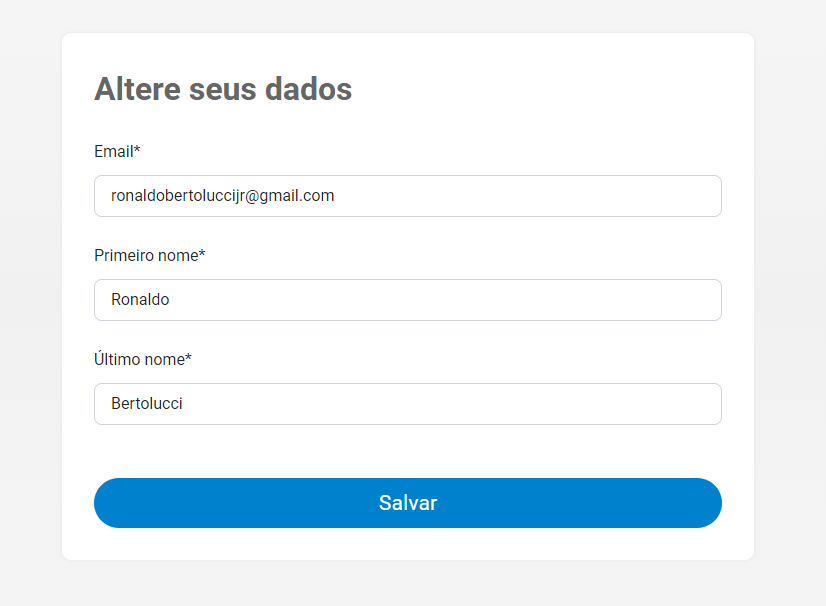
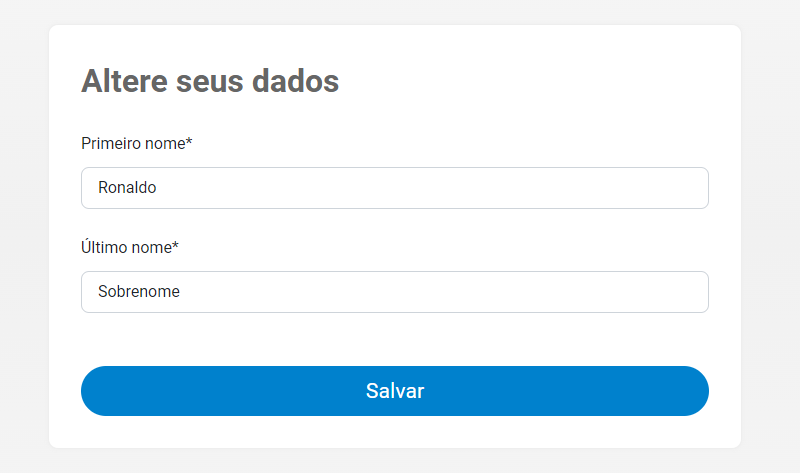
refactor(accounts): remoção do campo email na update view
- Impossibilitar a troca de email

diff --git a/templates/account/update.html b/templates/account/update.html
@@ -18,9 +18,6 @@
           {% csrf_token %}
           <div class="row">
             <div class="col-12">
-              {{ form.email|as_crispy_field }}
-            </div>
-            <div class="col-12">
               {{ form.first_name|as_crispy_field }}
             </div>
             <div class="col-12">

diff --git a/accounts/forms.py b/accounts/forms.py
@@ -17,7 +17,6 @@ class CustomUserChangeForm(UserChangeForm):
     class Meta:
         model = CustomUser
         fields = (
-            'email',
             'first_name',
             'last_name',
         )

diff --git a/README.md b/README.md
@@ -5,14 +5,14 @@ Este projeto também está online na plataforma Heroku em [pagrofacil.herokuapp.
 - login: analista@exemplo.com.br
 - senha: desafiosf2022
 
-## Instalação 
+## Instalação
 - Para ver o guia rápido de instalação, acesse esse [link](/guia/guia_inst.md)
 
 ## Como utilizar o programa
 <ul>
   <li>
     <p> O acesso ao sistema é feito pelo botão no canto superior direito. Se estiver testando a versão online, o acesso pode ser feito com as credencias
-      disponibilizadas acima. 
+      disponibilizadas acima.
     </p>
     <p align='center'>
       <img src="/guia/images/1.png" alt="home">
@@ -25,7 +25,7 @@ Este projeto também está online na plataforma Heroku em [pagrofacil.herokuapp.
     </p>
   </li>
   <li>
-    <p>Na opção 'Meus dados', o analista pode alterar seu nome, sobrenome e email. Neste projeto, o cadastro de novo usuário e alteração de senha 
+    <p>Na opção 'Meus dados', o analista pode alterar seu nome e sobrenome. Neste projeto, o cadastro de novo usuário e alteração de senha 
       foram desabilitadas.
     </p>
     <p align='center'>
@@ -40,7 +40,7 @@ Este projeto também está online na plataforma Heroku em [pagrofacil.herokuapp.
     </p>
   </li>
   <li>
-    <p>No item 'Todas as comunicações', é possível ver as entradas feitas por qualquer analista e ainda fazer buscas de comunicações por CPF do produtor. 
+    <p>No item 'Todas as comunicações', é possível ver as entradas feitas por qualquer analista e ainda fazer buscas de comunicações por CPF do produtor.
     </p>
     <p align='center'>
       <img src="/guia/images/4.png" alt="cpf" width="900">
